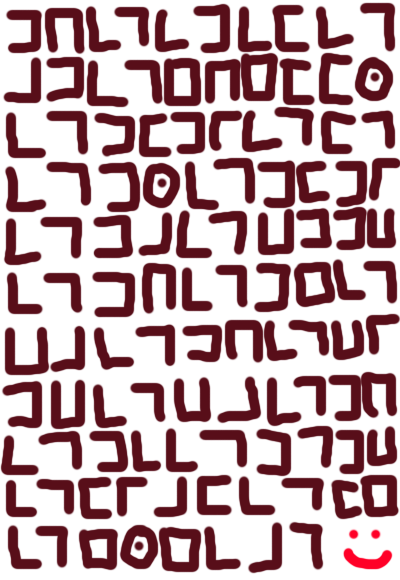
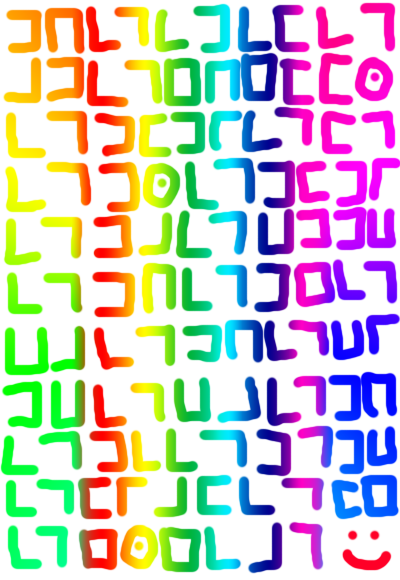
1.1.80
Nerfed Level 39 and 42

diff --git a/src/levels/level42.ts b/src/levels/level42.ts
@@ -32,6 +32,8 @@ const PLAYER_SPEED = 205;
 const BOOSTED_PLAYER_SPEED = 270;
 const BOOST_CHARGE_PER_SECOND = 20;
 const BOOST_DRAIN_PER_SECOND = 55;
+const RAINBOW_SQUARE_SPEED = 290;
+const LIFELINE_INVINCIBLE_TIME = 3_000;
 const SURVIVAL_TIME = 20_000;
 const DOOR_OPEN_TIME = 900;
 const ARENA: Rect = { x: 192, y: 120, width: 520, height: 400 };
@@ -194,11 +196,14 @@ export const level42: LevelDefinition = {
       let rainbowHazards: MovingHazard[] = [];
       let rainbowMessages: MovingHazard[] = [];
       let magicCircles: MovingHazard[] = [];
+      let lifelineCircles: MovingHazard[] = [];
+      let lifelineMessages: MovingHazard[] = [];
       let meteors: MovingHazard[] = [];
       let lasers: LaserHazard[] = [];
       let mines: MineHazard[] = [];
       let chaser: MovingHazard | undefined;
       let invertedUntil = 0;
+      let invincibleUntil = 0;
       let boostCharge = 0;
       let nextRainbowAt = 0;
       let nextMagicAt = 5_000;
@@ -206,6 +211,7 @@ export const level42: LevelDefinition = {
       let nextLaserAt = 10_000;
       let nextMineAt = 13_000;
       let rainbowMessageSpawned = false;
+      let lifelineSpawned = false;
       let magicWave = 0;
       let laserWave = 0;
 
@@ -228,7 +234,7 @@ export const level42: LevelDefinition = {
           rainbowHazards.push(createMovingHazard(
             "level-42__rainbow-square",
             { x: position.x, y: position.y, width: 38, height: 38 },
-            350,
+            RAINBOW_SQUARE_SPEED,
             0,
           ));
         });
@@ -243,6 +249,25 @@ export const level42: LevelDefinition = {
         );
         message.element.textContent = "I SUCK ;(";
         rainbowMessages.push(message);
+      };
+
+      const spawnLifeline = () => {
+        const circle = createMovingHazard(
+          "level-42__lifeline-circle",
+          { x: -96, y: 334, width: 70, height: 70 },
+          430,
+          0,
+        );
+        lifelineCircles.push(circle);
+
+        const message = createMovingHazard(
+          "level-42__lifeline-message",
+          { x: -500, y: 342, width: 390, height: 58 },
+          430,
+          0,
+        );
+        message.element.textContent = "Take it! It's your lifeline!";
+        lifelineMessages.push(message);
       };
 
       const spawnChaser = () => {
@@ -315,6 +340,8 @@ export const level42: LevelDefinition = {
         boostFill.style.width = `${boostCharge}%`;
         boostPercent.value = `${Math.round(boostCharge)}%`;
         screen.classList.toggle("is-boosting", boosting);
+        let invincible = time < invincibleUntil;
+        screen.classList.toggle("is-invincible", invincible);
         if (boostCharge >= 100) {
           fail("You died from booster overheating.");
           return;
@@ -338,10 +365,13 @@ export const level42: LevelDefinition = {
             y: player.y + vertical * (boosting ? BOOSTED_PLAYER_SPEED : PLAYER_SPEED) * delta,
           };
           if (!playerInsideFloor(candidate)) {
-            fail("You died after smashing your head into a wall.");
-            return;
+            if (!invincible) {
+              fail("You died after smashing your head into a wall.");
+              return;
+            }
+          } else {
+            player = candidate;
           }
-          player = candidate;
         }
 
         if (activatedAt === undefined && overlaps(player, GREEN_PORTAL)) {
@@ -380,6 +410,10 @@ export const level42: LevelDefinition = {
             rainbowMessageSpawned = true;
             spawnRainbowMessage();
           }
+          if (!lifelineSpawned && elapsed >= SURVIVAL_TIME - 2_000) {
+            lifelineSpawned = true;
+            spawnLifeline();
+          }
           while (nextMineAt <= elapsed && nextMineAt < SURVIVAL_TIME) {
             spawnMine(elapsed);
             nextMineAt += 3_000;
@@ -397,6 +431,24 @@ export const level42: LevelDefinition = {
             message.x += message.vx * delta;
             place(message.element, message);
             return message.x < 830 || removeMovingHazard(message);
+          });
+
+          lifelineCircles = lifelineCircles.filter((circle) => {
+            circle.x += circle.vx * delta;
+            place(circle.element, circle);
+            if (overlaps(player, circle)) {
+              invincibleUntil = time + LIFELINE_INVINCIBLE_TIME;
+              invincible = true;
+              screen.classList.add("is-invincible");
+              return removeMovingHazard(circle);
+            }
+            return circle.x < 850 || removeMovingHazard(circle);
+          });
+
+          lifelineMessages = lifelineMessages.filter((message) => {
+            message.x += message.vx * delta;
+            place(message.element, message);
+            return message.x < 850 || removeMovingHazard(message);
           });
 
           if (chaser) {
@@ -441,7 +493,7 @@ export const level42: LevelDefinition = {
             mine.element.classList.toggle("is-exploding", exploding);
             if (!exploding && overlaps(player, mine)) fatalReason = "You stepped on a mine and exploded.";
             if (exploding) {
-              const explosion = { x: mine.x - 42, y: mine.y - 42, width: 114, height: 114 };
+              const explosion = { x: mine.x - 33, y: mine.y - 33, width: 96, height: 96 };
               if (overlaps(player, explosion)) fatalReason = "You stepped on a mine and exploded.";
             }
             if (elapsed < mine.expiresAt) return true;
@@ -462,7 +514,7 @@ export const level42: LevelDefinition = {
             if (overlaps(player, crusher)) fatalReason = "You were crushed by the spiked wall.";
           }
 
-          if (fatalReason) {
+          if (fatalReason && !invincible) {
             fail(fatalReason);
             return;
           }
@@ -472,7 +524,7 @@ export const level42: LevelDefinition = {
         screen.classList.toggle("is-controls-inverted", inversionRemaining > 0);
         effectTimer.value = inversionRemaining > 0 ? String(Math.ceil(inversionRemaining / 1_000)) : "";
 
-        if (doorProgress < 1 && overlaps(player, door)) {
+        if (doorProgress < 1 && overlaps(player, door) && !invincible) {
           fail("You charged into the door and died from a scrape.");
           return;
         }

diff --git a/src/levels/level39.ts b/src/levels/level39.ts
@@ -1,5 +1,4 @@
 import { attachStarMaskedInput } from "../core/StarMaskedInput";
-import { attachCustomCursor } from "../core/CustomCursor";
 import { SOUND_EFFECTS, assetUrl } from "../core/assets";
 import { clientPointToLocal } from "../core/floatingPosition";
 import type { LevelContext, LevelDefinition } from "../core/types";
@@ -797,6 +796,16 @@ function launchFakeLevelWorld(
     const level55 = fakeLevelPoint(55);
     const level666 = makeFakeLevel(666, { x: level55.x, y: level55.y - 4000 }, true);
     level666.classList.add("is-materializing");
+    const level97Canvas = world.querySelector<HTMLElement>('[data-fake-level="97"] [data-fake-level-canvas]');
+    if (level97Canvas && !level97Canvas.querySelector("[data-fake-666a-clue]")) {
+      const clueImage = document.createElement("img");
+      clueImage.className = "level-39__fake-666a-clue";
+      clueImage.dataset.fake666aClue = "";
+      clueImage.src = assetUrl("images/level39fake666a.png");
+      clueImage.alt = "A clue that appears over Fake Level 97 after Fake Level 666 appears";
+      clueImage.draggable = false;
+      level97Canvas.append(clueImage);
+    }
     const level69Canvas = world.querySelector<HTMLElement>('[data-fake-level="69"] [data-fake-level-canvas]');
     if (level69Canvas && !level69Canvas.querySelector("[data-fake-666-extra]")) {
       const clue = document.createElement("p");
@@ -1625,11 +1634,6 @@ export const level39: LevelDefinition = {
   ],
   mount(context) {
     const { screen, listen, timeout, audio, goToMenu, complete, initialScene } = context;
-    const removeCustomCursor = attachCustomCursor(context, {
-      source: "cursor/level39.png",
-      hotspot: "center",
-      rotating: true,
-    });
     screen.className = "level-screen level-39";
     screen.innerHTML = `
       <div class="level-39__gradient level-39__gradient--yellow" aria-hidden="true"></div>
@@ -1701,7 +1705,7 @@ return void 0x000000;</code></pre>
     const form = screen.querySelector<HTMLFormElement>(".level-39__form");
     const input = screen.querySelector<HTMLInputElement>("#level-39-answer");
     const submit = screen.querySelector<HTMLButtonElement>(".level-39__form button");
-    if (!xOutput || !yOutput || !sigil || !form || !input || !submit) return removeCustomCursor;
+    if (!xOutput || !yOutput || !sigil || !form || !input || !submit) return undefined;
 
     const maskedInput = attachStarMaskedInput(input, listen);
 
@@ -1746,7 +1750,6 @@ return void 0x000000;</code></pre>
     }
     return () => {
       audio.stopMusic();
-      removeCustomCursor();
     };
   },
 };

diff --git a/src/styles/levels/level42.css b/src/styles/levels/level42.css
@@ -126,6 +126,8 @@
 .level-42__rainbow-message,
 .level-42__chaser,
 .level-42__magic-circle,
+.level-42__lifeline-circle,
+.level-42__lifeline-message,
 .level-42__meteor,
 .level-42__laser,
 .level-42__mine,
@@ -226,6 +228,8 @@
 .level-42__rainbow-message,
 .level-42__chaser,
 .level-42__magic-circle,
+.level-42__lifeline-circle,
+.level-42__lifeline-message,
 .level-42__meteor,
 .level-42__laser,
 .level-42__mine {
@@ -281,6 +285,43 @@
   border-radius: 50%;
 }
 
+.level-42__lifeline-circle {
+  z-index: 6;
+  border: 5px solid rgb(40 190 255 / 78%);
+  border-radius: 50%;
+  background: radial-gradient(circle, rgb(255 255 255 / 18%) 0 18%, rgb(0 132 255 / 30%) 28% 50%, transparent 56%);
+  box-shadow: 0 0 18px rgb(0 190 255 / 90%), inset 0 0 14px rgb(150 230 255 / 80%);
+  animation: level-42-magic-spin 240ms linear infinite;
+}
+
+.level-42__lifeline-circle::before,
+.level-42__lifeline-circle::after {
+  position: absolute;
+  content: "";
+  pointer-events: none;
+}
+
+.level-42__lifeline-circle::before {
+  inset: 9px;
+  border: 3px solid rgb(160 235 255 / 82%);
+  rotate: 45deg;
+}
+
+.level-42__lifeline-circle::after {
+  inset: 20px;
+  border: 2px solid #d9fbff;
+  border-radius: 50%;
+}
+
+.level-42__lifeline-message {
+  z-index: 6;
+  color: #d8f8ff;
+  text-shadow: 2px 2px 0 #003d78, 0 0 12px #00d9ff;
+  font: 700 29px/1.1 "NELG Matisse", "Arial Rounded MT Bold", sans-serif;
+  letter-spacing: 0;
+  white-space: nowrap;
+}
+
 .level-42__meteor {
   background: linear-gradient(180deg, rgb(255 255 255 / 8%), #fff 38%, #ffdb3d 58%, #ff4d00 100%);
   border-radius: 50% 50% 38% 38%;
@@ -329,7 +370,7 @@
   border-radius: 50%;
   box-shadow: 0 0 18px #ff0, 0 0 34px #f00;
   opacity: 0.82;
-  scale: 3.8;
+  scale: 3.2;
 }
 
 .level-42__crusher {
@@ -368,6 +409,11 @@
 
 .level-42__player.is-facing-left .level-42__player-face {
   transform: translate(-50%, -50%) rotate(90deg) scaleY(-1);
+}
+
+.level-42--game.is-invincible .level-42__player {
+  box-shadow: 0 0 0 2px #fff, 0 0 20px #00d9ff;
+  animation: level-42-invincible-blink 140ms steps(2, jump-none) infinite;
 }
 
 .level-42__timer {
@@ -490,4 +536,9 @@
   50% { translate: -2px -4px; }
   75% { translate: 3px 3px; }
   100% { translate: 0 0; }
+}
+
+@keyframes level-42-invincible-blink {
+  0% { opacity: 1; }
+  100% { opacity: 0.35; }
 }

diff --git a/src/levels/levelMinus04.ts b/src/levels/levelMinus04.ts
@@ -20,7 +20,7 @@ export const levelMinus04: LevelDefinition = {
     screen.className = "level-screen level-minus-04";
     screen.style.backgroundImage = `url("${assetUrl("images/levelm4bg.png")}")`;
     screen.innerHTML = `
-      <div class="level-minus-04__placeholder" role="img" aria-label="levelm4a image placeholder">levelm4a</div>
+      <img class="level-minus-04__image" src="${assetUrl("images/levelm4a.png")}" alt="levelm4a">
       <header class="level-heading">
         <div class="level-heading__number">Level -4</div>
         <h1>${caesar("Caesar")}</h1>

diff --git a/src/styles/levels/levelMinus04.css b/src/styles/levels/levelMinus04.css
@@ -5,17 +5,13 @@
   background-size: 100% 100%;
   background-repeat: no-repeat;
 }
-.level-minus-04__placeholder {
+.level-minus-04__image {
   position: absolute;
   top: 16px;
   left: 16px;
   width: 128px;
   height: 128px;
-  display: grid;
-  place-items: center;
-  border: 1px dashed #ff0;
-  background: rgb(0 0 0 / 30%);
-  font: 16px "NELG Courier", Courier, monospace;
+  object-fit: contain;
 }
 .level-minus-04__copy {
   position: absolute;

diff --git a/src/styles/levels/level39.css b/src/styles/levels/level39.css
@@ -1962,6 +1962,17 @@
 .level-39__fake-97-errors code:nth-child(3n + 2) { translate: 19px -7px; }
 .level-39__fake-97-errors code:nth-child(4n) { scale: -1 1; }
 
+.level-39__fake-666a-clue {
+  position: absolute;
+  z-index: 7;
+  top: 96px;
+  left: 230px;
+  width: 340px;
+  height: 190px;
+  object-fit: contain;
+  pointer-events: none;
+}
+
 .level-39__fake-level--98 {
   color: #000;
   background: #240000;
